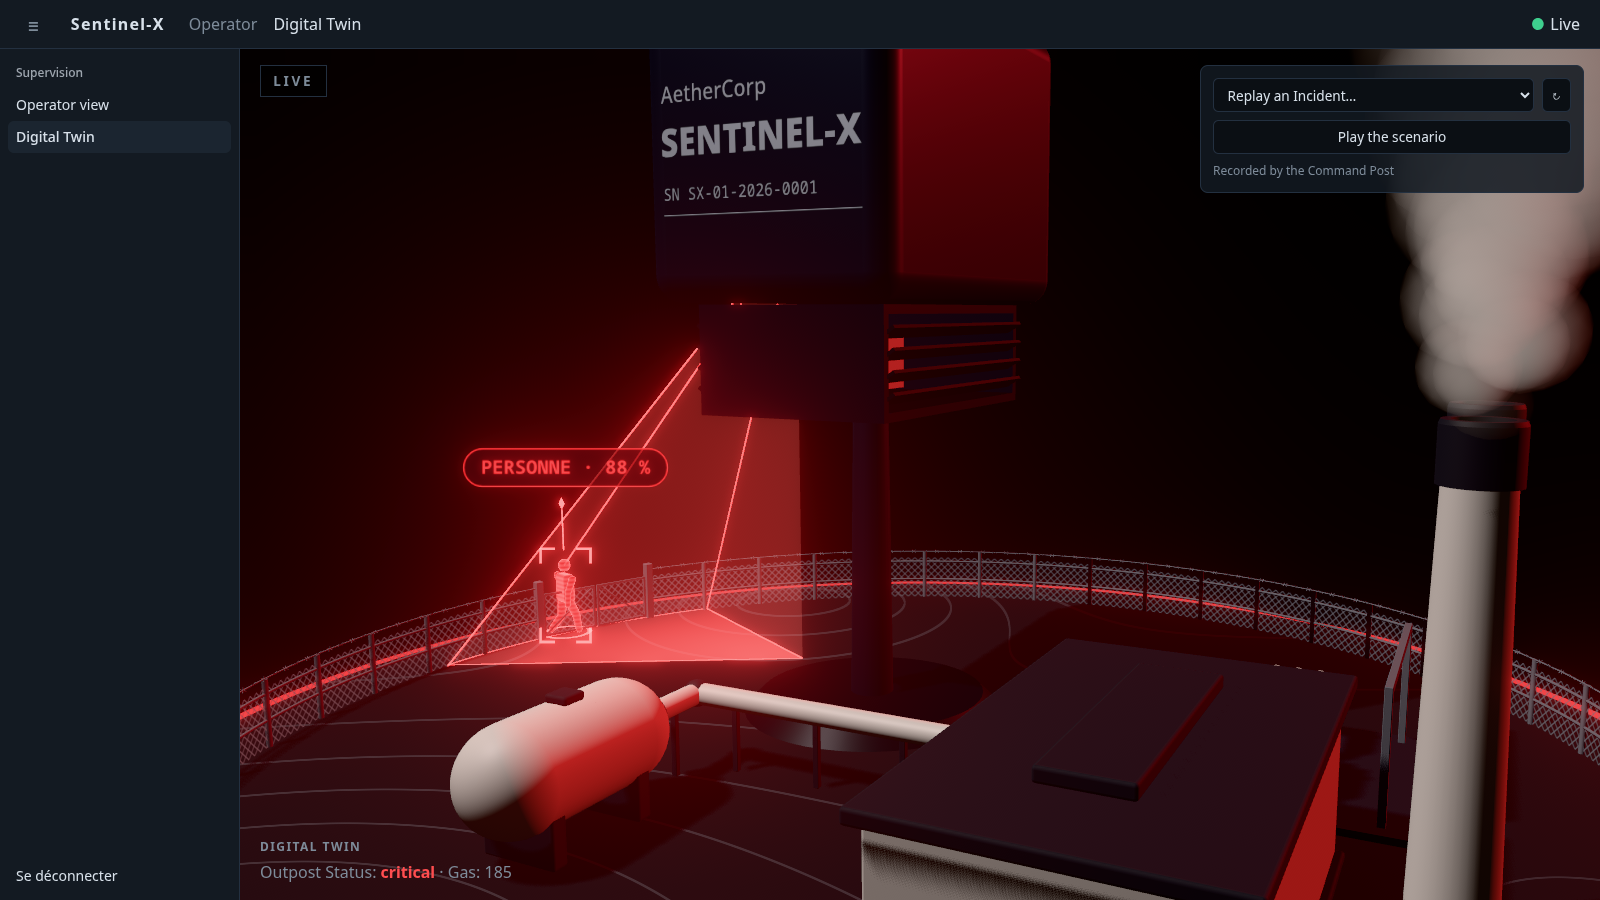
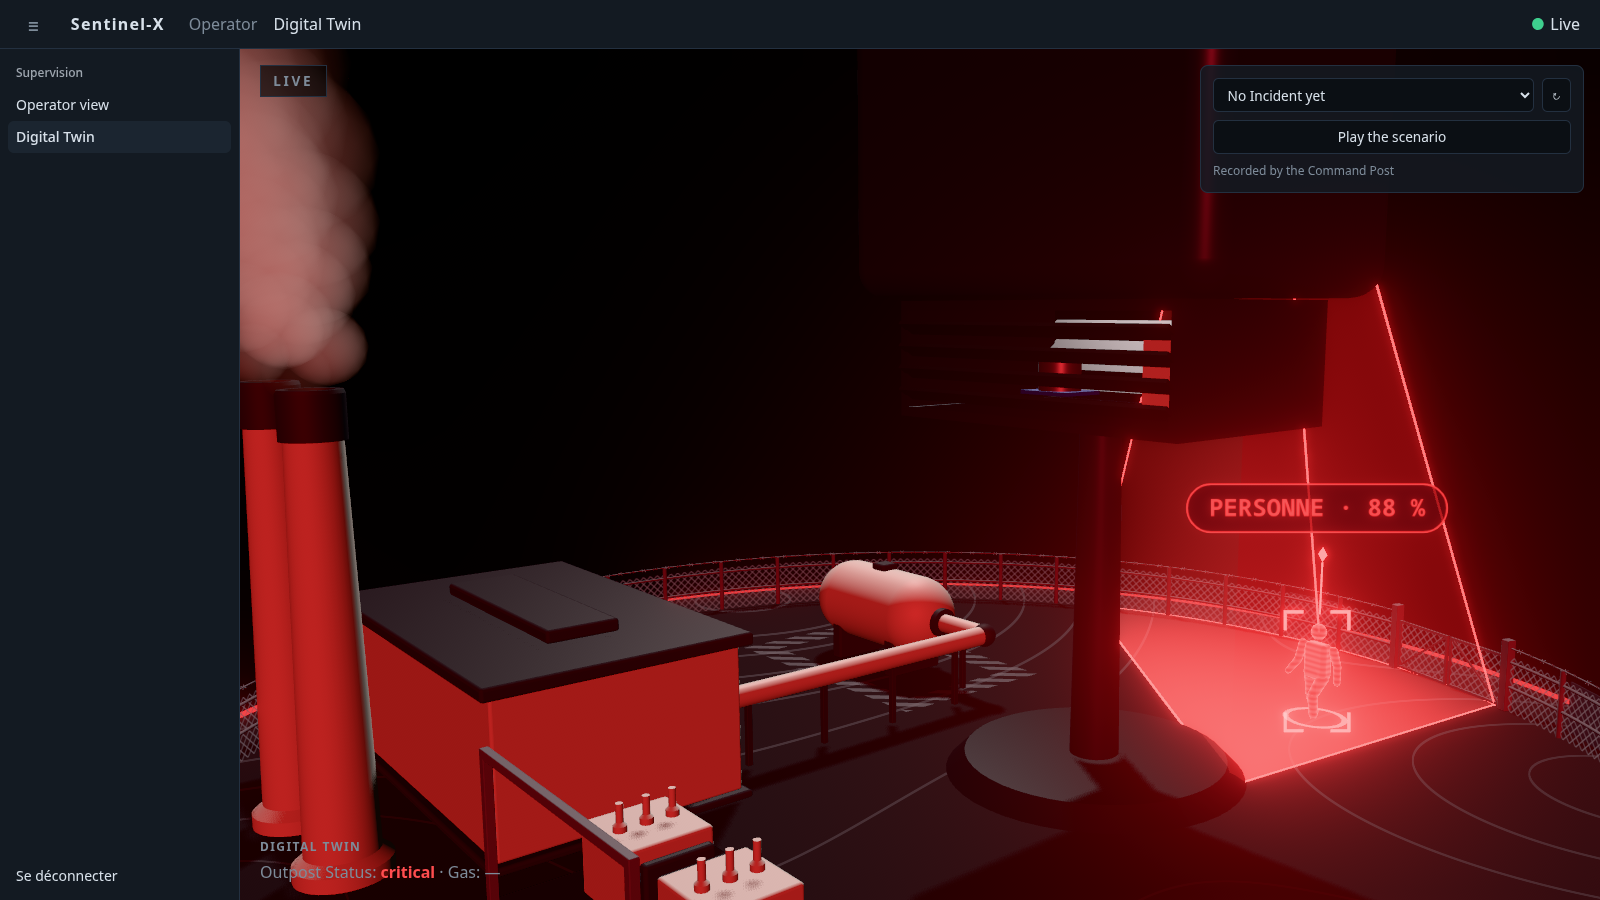
fix(dashboard): whoever the camera sees stands a step inside the fence's line all round, never in a no-entry sign
The far end of where someone can stand is now a circle a step inside the fence, not a step back along
the sight line: where the camera's sight meets the fence at a slant, the ring at their feet stayed
too near it.

The no-entry signs of #99 were placed where no intruder stood on the fence's line. Intruders no longer
stand on it and the camera turns, so the signs' test now says what holds: nobody the camera sees stands
in a sign, whichever way it is turned. The three pictures of the intruder are taken again, inside the
chain-link fence.

diff --git a/dashboard/src/features/twin/utils/site.ts b/dashboard/src/features/twin/utils/site.ts
@@ -69,8 +69,8 @@ export const SITE = {
   // with the vision service's CAMERA_FOV_DEG.
   camera: { fov: Math.PI / 3 },
   // The signage of a sensitive site. A no-entry sign hangs on the fence on each side of the gate, `width`
-  // along the fence, in the middle of a bay: the second from the gate, since whoever the camera sees through
-  // the gate stands in the first. The danger zone is marked on the ground around the gas tank: clear ground
+  // along the fence, in the middle of a bay: the second from the gate, clear of the way in. Whoever the
+  // camera sees stands inside the fence, `STANDING.clear` from its line: never in a plate. The danger zone is marked on the ground around the gas tank: clear ground
   // `margin` wide around its footprint, then a hatched band `band` wide. A gas pictogram is on the tank's
   // barrel, on the side that faces `bearing`: `width` along the tank, `height` round it. The site's name is on
   // the hall's wall that faces `bearing`: its middle `along` from the wall's, toward the right of whoever
@@ -85,8 +85,8 @@ export const SITE = {
 
 // Where someone the camera sees stands along its sight line.
 export const STANDING = {
-  // How far clear of the fence, of the Enclosure's own ground and of what stands on the site: the ring at
-  // their feet, and a little more.
+  // How far clear of the fence's line, of the Enclosure's own ground and of what stands on the site: the ring
+  // at their feet, and a little more. More than half a no-entry sign is wide, which hangs on that line.
   clear: 0.2,
   // The share of the image's height someone takes at the far end of where they can stand, by the fence, and
   // at the near end, by the Enclosure: there they fill the image.
@@ -318,15 +318,16 @@ export function watchedPoint(xNorm: number, pan = 0): GroundPoint {
 }
 
 // The stretch of the sight line that goes by `bearing` where someone can stand, in scene units from the lens:
-// from where it is clear of the Enclosure's own ground, which the lens is over, to a step short of the fence,
-// or of what stands on the site before it. Where there is no room between the two there is one place to
-// stand: its near end.
+// from where it is clear of the Enclosure's own ground, which the lens is over, to where it is still clear of
+// the fence's line, a step inside it all round the site, or of what stands on the site before that. Where
+// there is no room between the two there is one place to stand: its near end.
 export function standingSpan(bearing: number): { near: number; far: number } {
   const lens = lensPoint()
   const sight = toward(bearing)
-  const { enclosure } = SITE
+  const { enclosure, fence } = SITE
   const near = Math.max(0, throughCircle(lens, sight, enclosure, enclosure.radius)?.out ?? 0) + STANDING.clear
-  const far = Math.min(reachToFence(bearing) - STANDING.clear, reachToPlant(lens, sight, STANDING.clear))
+  const inside = throughCircle(lens, sight, { x: 0, z: 0 }, fence.radius - STANDING.clear)?.out ?? 0
+  const far = Math.min(inside, reachToPlant(lens, sight, STANDING.clear))
 
   return { near, far: Math.max(near, far) }
 }

diff --git a/dashboard/src/features/twin/utils/site.test.ts b/dashboard/src/features/twin/utils/site.test.ts
@@ -244,11 +244,14 @@ describe('the no-entry signs', () => {
     }
   })
 
-  it('hide no one the camera sees, but at the very left edge of its image', () => {
-    // The intruder stands on the fence's line, where a sign hangs: none hangs where it is seen.
-    for (const xNorm of ACROSS.filter((across) => across > 0)) {
-      for (const sign of gateSigns()) {
-        expect(between(watchedPoint(xNorm), sign), `x_norm ${xNorm}`).toBeGreaterThan(signs.gate.width / 2)
+  it('stand in no one the camera sees, whichever way it is turned: they stand clear of the fence a sign hangs on', () => {
+    // A sign hangs on the fence's line; whoever is seen stands inside it, by more than half a sign is wide.
+    expect(STANDING.clear).toBeGreaterThan(signs.gate.width / 2)
+    for (const pan of [-Math.PI / 2, -0.6, 0, 0.6, Math.PI / 2]) {
+      for (const xNorm of ACROSS) {
+        for (const sign of gateSigns()) {
+          expect(between(standingPoint(xNorm, pan), sign), `pan ${pan}, x_norm ${xNorm}`).toBeGreaterThan(signs.gate.width / 2)
+        }
       }
     }
   })
@@ -524,9 +527,9 @@ describe('where someone the camera sees stands', () => {
     }
   })
 
-  it('is inside the fence and clear of it, never on it', () => {
+  it('is inside the fence and clear of its line all round the site, never on it', () => {
     for (const { pan, xNorm, hNorm } of places) {
-      expect(fromCentre(standingPoint(xNorm, pan, hNorm))).toBeLessThan(SITE.fence.radius - STANDING.clear / 2)
+      expect(fromCentre(standingPoint(xNorm, pan, hNorm))).toBeLessThanOrEqual(SITE.fence.radius - STANDING.clear + 1e-9)
     }
   })
 
@@ -553,7 +556,10 @@ describe('where someone the camera sees stands', () => {
     for (const xNorm of ACROSS) {
       const at = standingPoint(xNorm)
 
-      expect(between(at, watchedPoint(xNorm))).toBeCloseTo(STANDING.clear)
+      expect(fromCentre(at)).toBeCloseTo(SITE.fence.radius - STANDING.clear)
+      // A step from where the camera's sight meets the fence: a little more where it meets it at a slant.
+      expect(between(at, watchedPoint(xNorm))).toBeGreaterThanOrEqual(STANDING.clear - 1e-9)
+      expect(between(at, watchedPoint(xNorm))).toBeLessThan(1.5 * STANDING.clear)
       expect(at).toEqual(standingPoint(xNorm, 0, STANDING.tall.far))
     }
   })

diff --git a/dashboard/src/features/twin/utils/scene.test.ts b/dashboard/src/features/twin/utils/scene.test.ts
@@ -462,8 +462,9 @@ describe('toScene', () => {
       const onFence = watchedPoint(x_norm)
 
       expect(at).toEqual(standingPoint(x_norm))
-      expect(fromCentre(at)).toBeLessThan(SITE.fence.radius - STANDING.clear / 2)
-      expect(Math.hypot((at?.x ?? 0) - onFence.x, (at?.z ?? 0) - onFence.z)).toBeCloseTo(STANDING.clear)
+      expect(fromCentre(at)).toBeCloseTo(SITE.fence.radius - STANDING.clear)
+      // On the way from the lens to where its sight meets the fence, a step short of it.
+      expect(Math.hypot((at?.x ?? 0) - onFence.x, (at?.z ?? 0) - onFence.z)).toBeLessThan(1.5 * STANDING.clear)
     }
   })
 

diff --git a/dashboard/README.md b/dashboard/README.md
@@ -255,7 +255,7 @@ const history = useLiveFeed((state) => state.history)
 
 ![The last known position, seen from behind the Enclosure: the figurine's hollow red outline standing at rest where it had walked to, alone, with no pin, ring, line, bracket or label, in the camera's field gone back to neutral](../docs/twin/intruder-last-known.png)
 
-- **Where** — `scene.intruder` is the last raised of the active `intrusion` Alerts: its `alertId`, the `key` of the person its camera follows (the Alert's `id`), their `x_norm`, their `confidence` and `at`, where they stand on the ground: `standingPoint(x_norm, pan, h_norm)` (`utils/site.ts`). That is a point of the camera's sight line for `x_norm` (0 is the lens's left, 1 its right: mirrored when you face the Enclosure), the camera turned by the Alert's `pan`, and as far along that line as they are short in the image: a lens makes what is twice as far half as tall, so `h_norm` reads as a distance, between someone who fills the image (`STANDING.tall.near`, 1), stood at the near end of where one can stand, and someone as short as at the fence (`STANDING.tall.far`, 0.3), at its far end. `standingSpan(bearing)` gives the two ends: from where the line is clear of the Enclosure's own ground to a step (`STANDING.clear`, 0.2 unit) short of the fence — never on it — or of what stands on the site before it, the plant's parts and the gas pipe: turned a quarter turn to its left the camera looks at the tank, and the intruder stops before the pipe. An Alert that does not say how tall, as the vision service sent them before, stands its intruder at the far end, just inside the fence. `toScene` does the mapping, so it is tested without a render: inside the fence, on the sight line, nearer as `h_norm` grows, on the side the camera is turned to.
+- **Where** — `scene.intruder` is the last raised of the active `intrusion` Alerts: its `alertId`, the `key` of the person its camera follows (the Alert's `id`), their `x_norm`, their `confidence` and `at`, where they stand on the ground: `standingPoint(x_norm, pan, h_norm)` (`utils/site.ts`). That is a point of the camera's sight line for `x_norm` (0 is the lens's left, 1 its right: mirrored when you face the Enclosure), the camera turned by the Alert's `pan`, and as far along that line as they are short in the image: a lens makes what is twice as far half as tall, so `h_norm` reads as a distance, between someone who fills the image (`STANDING.tall.near`, 1), stood at the near end of where one can stand, and someone as short as at the fence (`STANDING.tall.far`, 0.3), at its far end. `standingSpan(bearing)` gives the two ends: from where the line is clear of the Enclosure's own ground to a step (`STANDING.clear`, 0.2 unit) inside the fence's line — never on it, all round the site — or short of what stands on the site before that, the plant's parts and the gas pipe: turned a quarter turn to its left the camera looks at the tank, and the intruder stops before the pipe. An Alert that does not say how tall, as the vision service sent them before, stands its intruder at the far end, just inside the fence. `toScene` does the mapping, so it is tested without a render: inside the fence, on the sight line, nearer as `h_norm` grows, on the side the camera is turned to.
 - **Several people** — `scene.intruder.others` are the other people the Alert sees (`others`, at most 4): `{ key, at }` each, placed the same way. `<Intruder>` stands a figurine for each, with the ring at its feet and its four brackets. What tells the one the camera follows from them is the pin over its head, the line to the lens and the label: the camera looks at that one. Each figurine has its own track, by its person's `key` within the Alert, so each walks to where its own person is seen, whatever the order the Alert tells them in. Someone the Alert no longer tells of fades out where they stood, and leaves nothing; when the camera goes on to follow someone else, that figurine takes the pin, the line and the label where it stands, and the one it followed leaves its outline. `tracksAt(tracks, intrusion, elapsed)` (`utils/track.ts`) follows them all: those that are seen, in the Alert's order, then those going out. `MOST_FIGURINES` (12) is all the Twin draws at once: 5 seen, and those still fading.
 - **Drawn** — `<Intruder>`: a human figurine standing where the scene places it and facing the Enclosure's lens (`bearingTo(at, lens)`), so toward the inside of the site, like the pedestrians of a self-driving car's display: a head, a torso, arms and legs in two segments each. It is built from the maquette's volumes (`boxShape`, `turnedShape`: no model is loaded, no dependency added) to the plan in `FIGURE` (`utils/figure.ts`), and is `figureHeight()` tall, about 0.45 unit, nearly twice the fence: exaggerated like the Enclosure, to read from the back of the room. Its matter is a hologram, unlit, in `INTRUSION_COLOR`: a lit edge all around it and scan lines that rise slowly, which fade out evenly where they would be closer than two pixels apart instead of shimmering. It is drawn in two goes: its shade first, which dims what stands behind it (red on the red of the lit sector, its light alone would not tell it apart) and leaves its depth, then its light, added only where a volume is the nearest of them, so that an arm in front of the torso is not twice as bright. A pin of light over its head, a thin stem up to a gem 0.8 above the ground, where the column of #38 ended, tells it from afar; a ring marks its feet; a thin line runs from the Enclosure's lens (`lensPoint()`, `lensHeight()`) to the middle of its head (`headHeight()`). All of it is brighter than white, so it reads even while the Status's flash lights the scene all in red, and the halo takes it for lights. Once the flash has passed, it is the red that stands out of a neutral maquette. Nothing casts a shadow: the shadows are drawn once, and it moves.
 - **Walks** (#94) — a new sighting of the same person does not move the figurine there at once, nor slide it there: it walks over the ground, straight to where they are now seen, the line, the brackets and the label following it. Along the fence when they cross the camera's image, in toward the Enclosure when they come nearer it, round the Enclosure when the camera turns to follow them. `trackAt(track, seen, elapsed)` (`utils/track.ts`) is the figurine from one frame to the next, on the ground (`at`). The camera says where someone is, not how fast they go: the figurine takes as long to walk to a sighting as the camera took to see the move, and a little longer (`UNHURRIED`, 1.15). So it goes at their own pace, one sighting behind, and is still walking when the next one comes instead of marking time between two: on the mock's intruder, one sighting a second, it walks in from the fence toward the plant in one go, about 0.4 unit a second, a step a second and a little more. The time between two sightings is taken within `SIGHTING` (0.25 to 1.5 s): two in a row do not make it dash, one that comes after it stood for long does not make it crawl. Its pace is steady, it never goes past where it was seen and stops right there, and it lands at the same place whatever the frame rate. This replaces the glide of #23, which got there in a few tenths of a second: legs under it, that was a sprint. The track also gives `course`, the bearing it walks along, taken as it sets off and turned to another as it walks (`SET_OFF`, 8 a second); `walked`, the ground it has covered since it appeared, in scene units; and `walking`, how much of its stride it takes, 0 at rest and 1 in full stride, eased at the same rate. Someone newly seen stands their figurine where they are, at rest: no move and no step from where another stood, even one seen again under the same key. The track also counts the seconds it has been shown (`age`, from 0 for each new one, held once it is no longer seen), which the sweep goes by. Pure, and tested without a render.
@@ -339,7 +339,7 @@ const history = useLiveFeed((state) => state.history)
 
 - **From the site plan** — `SITE.signs` (`utils/site.ts`) places and sizes all of it, and three functions give where: `gateSigns()`, the two no-entry signs, each a point of the fence and the bearing it faces; `dangerZone()`, the ground marked around the gas tank; `hallSign()`, the point of the hall's wall the site's name is on. Its tests hold them without a render: the signs hang on the fence's line, one on each side of the gate and as far from it as each other, each in a bay, halfway between two posts, facing out of the site and no taller than the fence; the zone goes all round the tank, inside the fence with room to walk, takes no ground from anything but the tank and the pipe that comes to it, and stays out of the camera sector; the pictogram holds on the tank's barrel; the name is on a wall of the hall, off the ground and under its roof.
 - **No entry** — a plate on the fence on each side of the gate (`signs.gate`, 0.30 × 0.22 unit), hanging from the top of the mesh, outside it and under the barbed wire, read from outside the site: the no-entry mark, a disc and its bar, « ACCÈS INTERDIT », and « AetherCorp » under a rule. Its back and its edges are in the ink of its border.
-- **A bay away from the gate** — the signs hang in the second bay from the gate (`signs.gate.bay`), not the first: the intruder stands on the fence's line, and the mock's crossing, `x_norm` 0.15 to 0.75, walks it through the first bay on each side. A plate there would stand in front of the figurine as the camera turns to it. In the second, the signs hide no one the camera sees but at the very left edge of its image (`x_norm` under about 0.1): the site's test says so.
+- **A bay away from the gate** — the signs hang in the second bay from the gate (`signs.gate.bay`), not the first, clear of the way in. Whoever the camera sees stands inside the fence, `STANDING.clear` (0.2 unit) from its line, which is more than half a plate is wide: a figurine never stands in a sign, whichever way the camera is turned, and the site's test says so. A plate can still stand in front of one: now that the camera turns, and that its lens is on the Enclosure's roof, further from the gate, what it watches of the fence is no longer the first bay alone. Seen from outside in line with a sign, someone stood by the fence behind it has their legs behind the plate; their head and shoulders, their brackets and the label show over it.
 - **Legible up close** — the orbit cannot be panned and comes no closer than `MIN_DISTANCE`, where the near side of the fence is under the frame: the signs are read from about the default distance, the camera facing the gate and brought down as low as it goes. So their three lines are as wide as the plate, in bold: at 1600 × 900 a sign is about 70 pixels wide there and reads, as above.
 - **Reflective faces** — the one exception to « only what emits light glows » ([the stage](#digital-twin--featurestwin), halo). The key light comes from the front right and the sign on the gate's left turns its back to it: lit alone, it was a black plate. Like a road sign's, a face gives back a share of its own tones whatever the light (`SIGN.shine`, 0.3, emissive through its own texture): enough to read in the shade, too little for a halo that shows. In neutral tones, so nothing is taken from the signals.
 - **Danger zone** — a hatched band on the ground around the gas tank: clear ground `signs.dangerZone.margin` wide around the tank's footprint, then a band `band` wide, its stripes at 45°, one every `HATCH.pace`, meeting at its corners. The pipe comes in over it.
